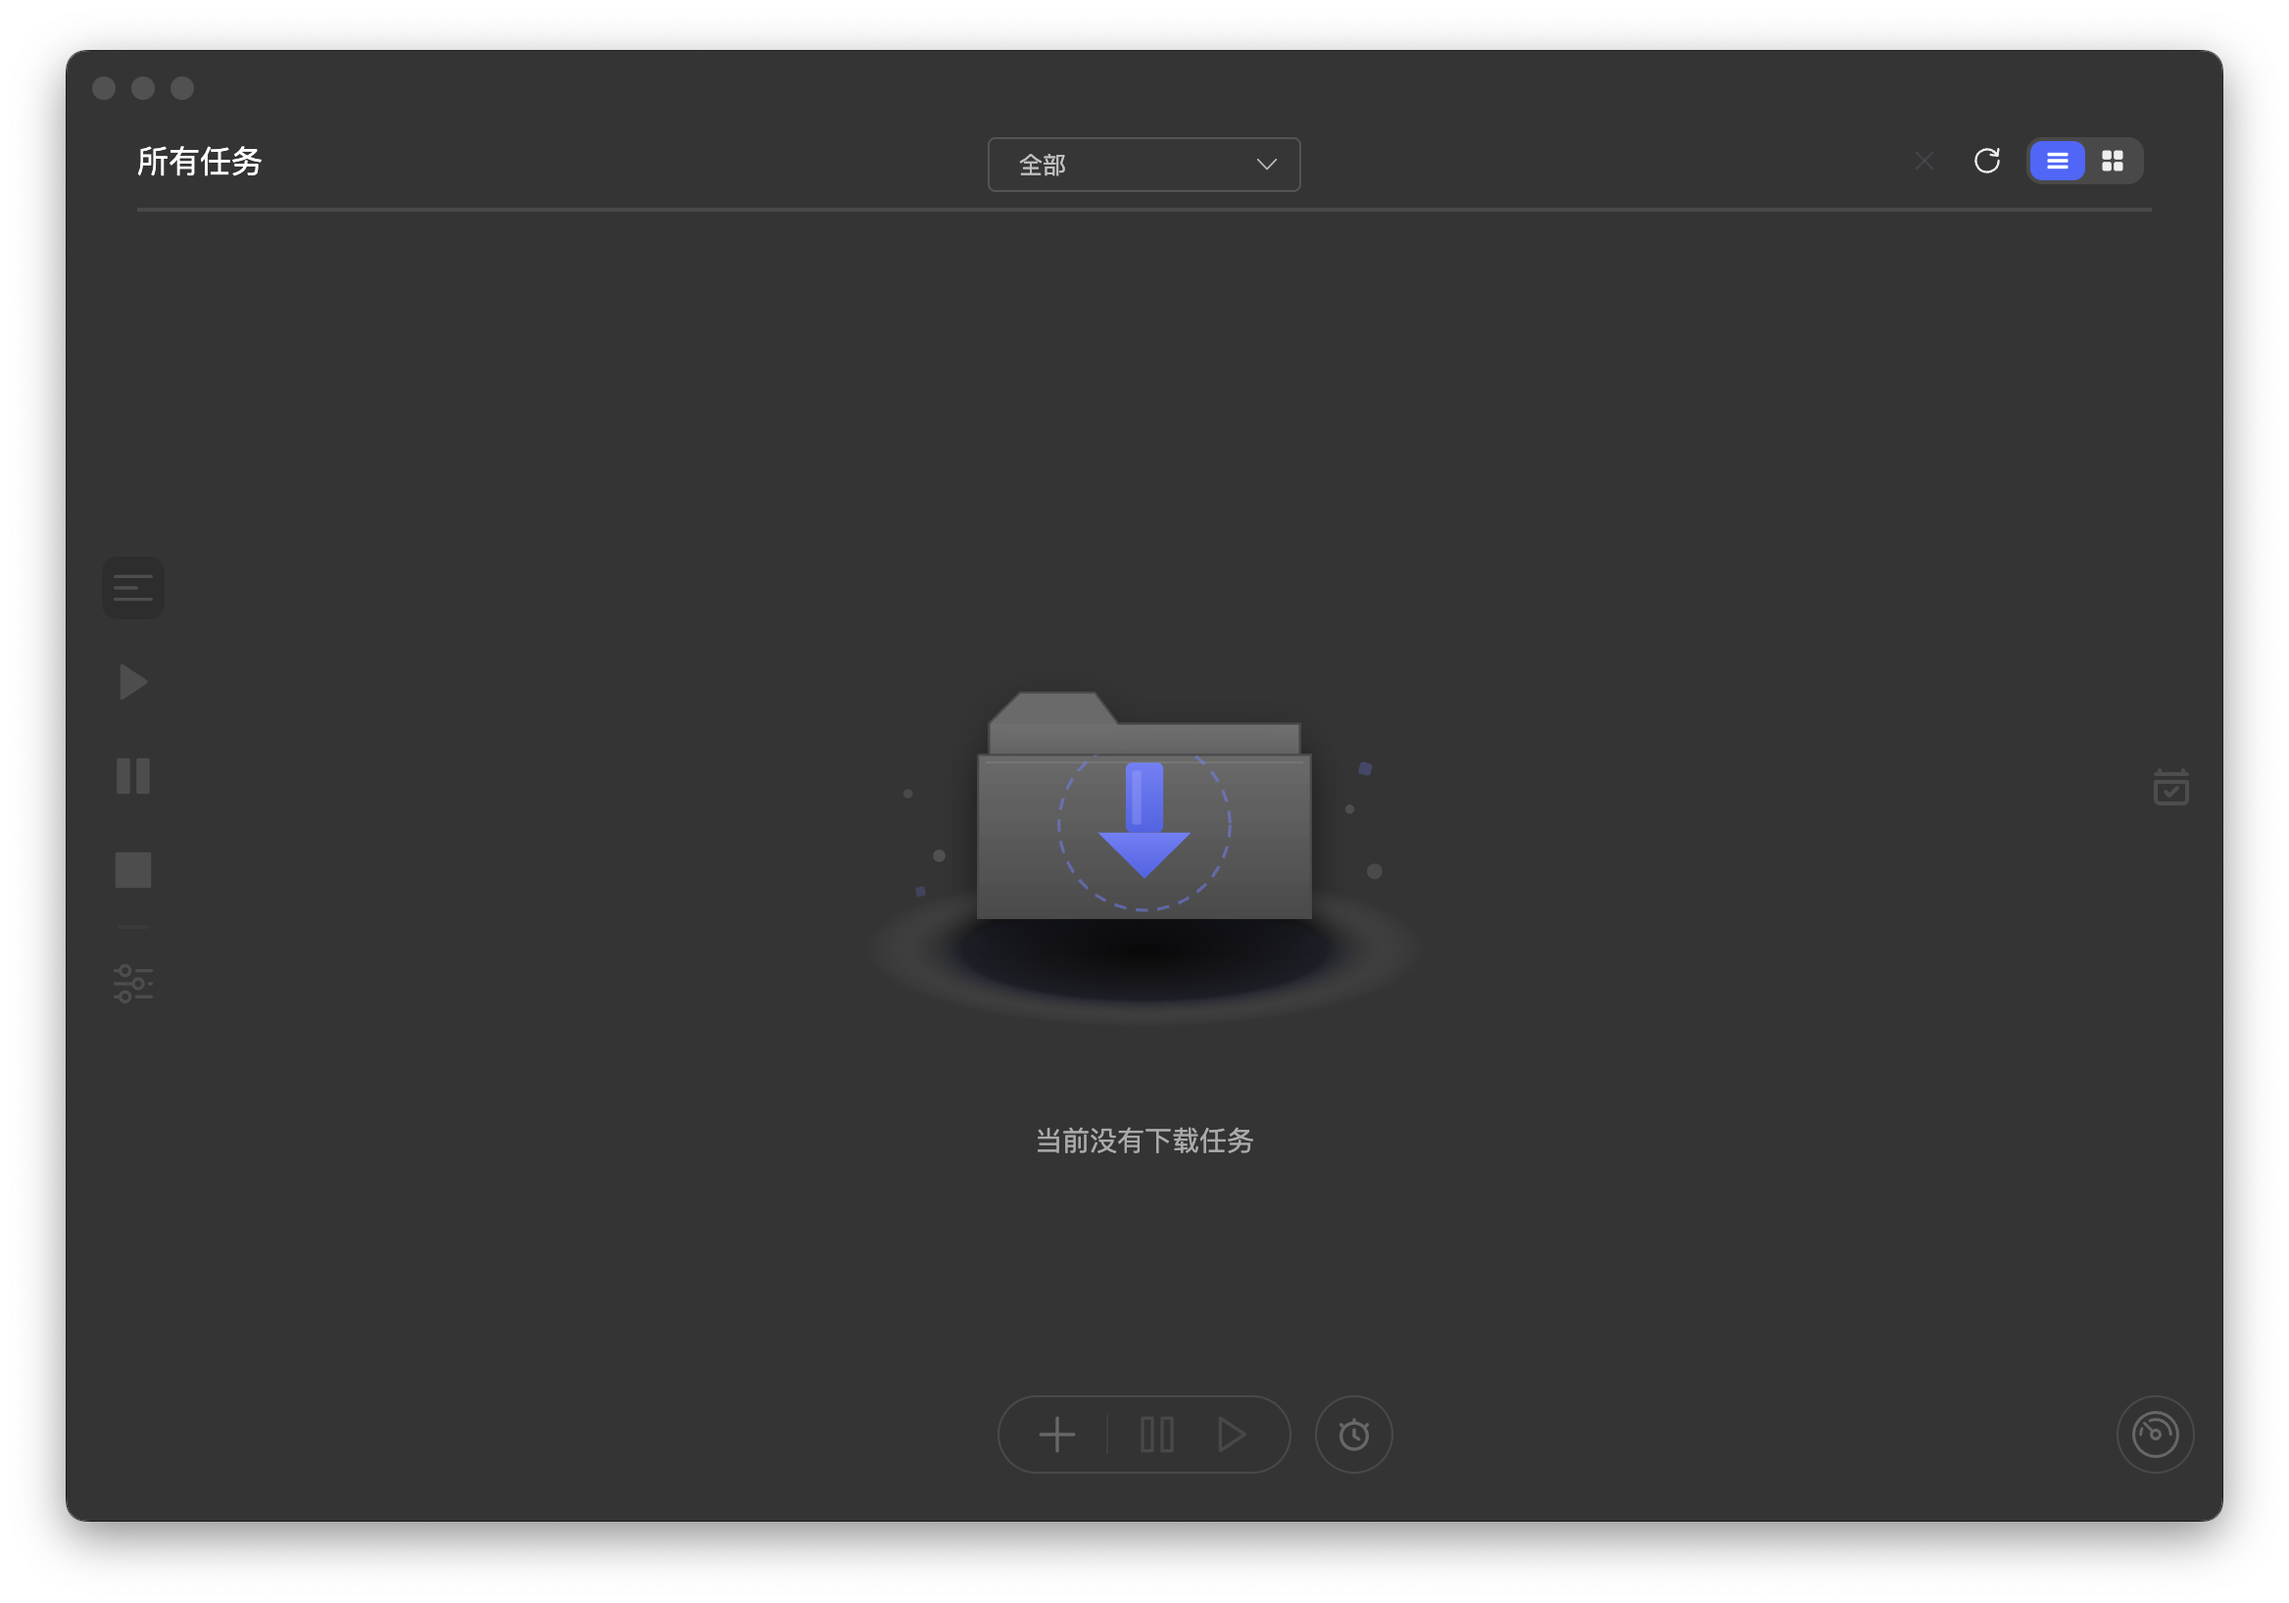
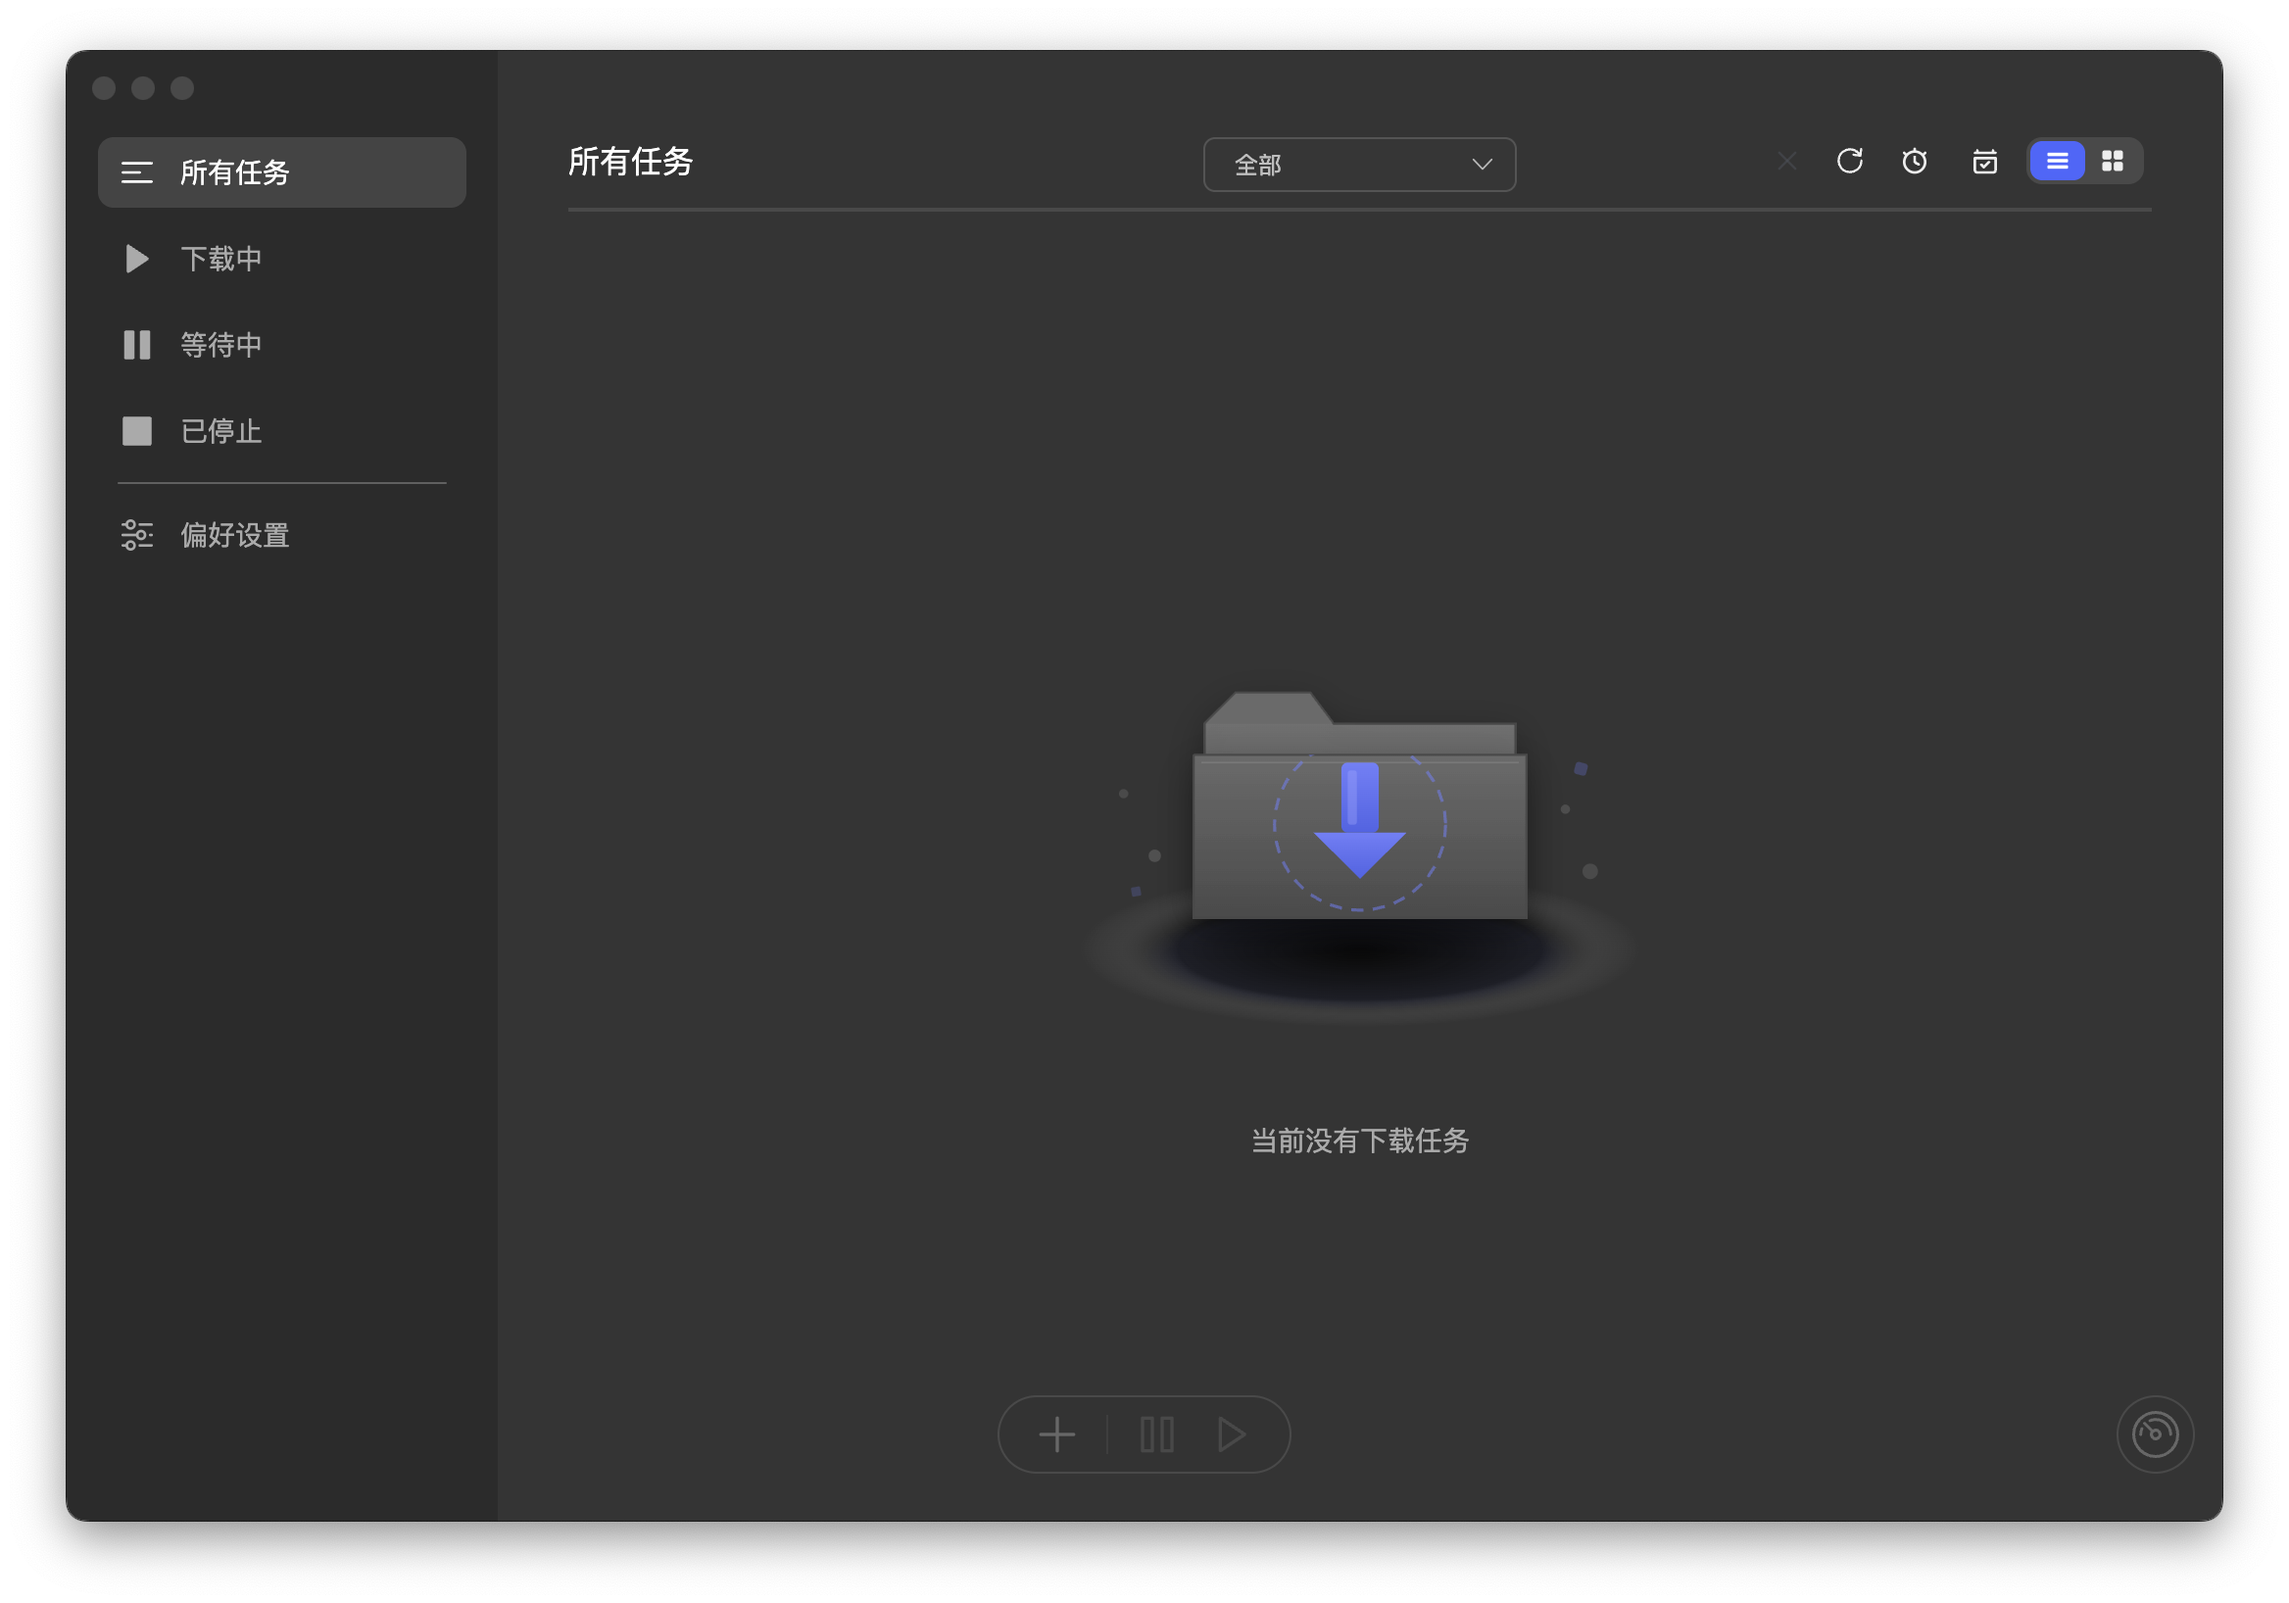
v2.3.6

diff --git a/src/renderer/components/TaskDetail/TaskTrackers.vue b/src/renderer/components/TaskDetail/TaskTrackers.vue
@@ -334,7 +334,7 @@
     border-bottom: none !important;
   }
   th.el-table__cell {
-    border-bottom: 1px solid #ebeef5 !important;
+    border-bottom: none !important;
     .cell {
       white-space: nowrap !important;
       overflow: hidden !important;

diff --git a/src/renderer/components/TaskDetail/TaskPeers.vue b/src/renderer/components/TaskDetail/TaskPeers.vue
@@ -1661,7 +1661,7 @@
     border-bottom: none !important;
   }
   th.el-table__cell {
-    border-bottom: 1px solid #ebeef5 !important;
+    border-bottom: none !important;
   }
   .cell {
     padding-left: 10px !important;
